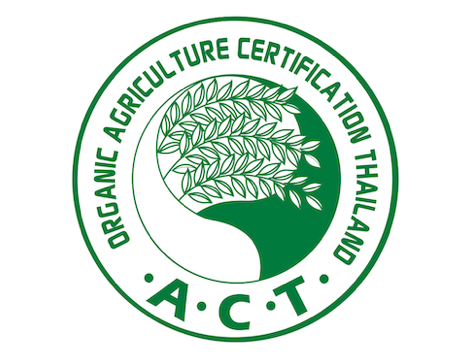
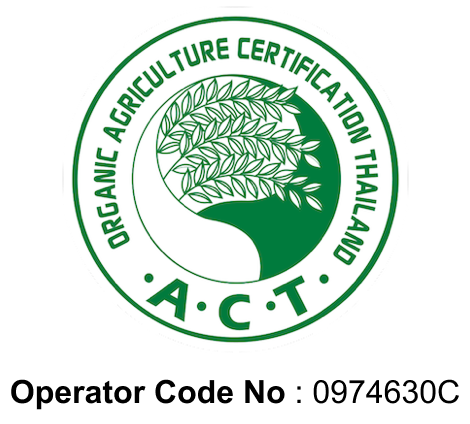
Update certificate modal layout and clean up unused assets
- Change Organic EU certificate images to horizontal layout with center alignment
- Increase padding for cert-modal-logos to 3rem
- Reduce padding for cert-modal-info to 1.5rem
- Make KLBD Kosher logo larger (400px max-height)
- Update Organic USDA to Organic NOP-COR with Canada Bio logo
- Add Operator Code No : 097463OC to Organic EU certification
- Replace Map 1.png with Map.png in origin section
- Rename product images to cleaner names (remove numbering)
- Remove unused asset files to clean up repository
- Update certificate file references from .jpg to .png where needed

diff --git a/index.html b/index.html
@@ -961,7 +961,7 @@ h1, h2, h3, h4 { font-family: var(--font-display); font-weight: 400; }
 }
 
 .product-img-tea-bag {
-  background-image: url('asset/photo/Product Tea Bag Cut (a).jpg');
+  background-image: url('asset/photo/Product Tea Bag Cut.jpg');
   background-size: cover;
   background-position: center;
   background-repeat: no-repeat;
@@ -1416,15 +1416,17 @@ h1, h2, h3, h4 { font-family: var(--font-display); font-weight: 400; }
 
 .cert-modal-logos {
   display: flex;
-  flex-direction: column;
+  flex-direction: row;
   align-items: center;
   justify-content: center;
-  gap: 2rem;
-  padding: 3rem;
+  gap: 1rem;
+  margin-bottom: 1.5rem;
+  flex-wrap: wrap;
+  min-height: 300px;
   background: var(--white);
   border-bottom: 1px solid rgba(31, 59, 35, 0.1);
   box-sizing: border-box;
-  min-height: 300px;
+  padding: 3rem;
 }
 
 .cert-modal-logos img {
@@ -1433,8 +1435,12 @@ h1, h2, h3, h4 { font-family: var(--font-display); font-weight: 400; }
   object-fit: contain;
 }
 
+.cert-modal-logos img[src*="Klbd"] {
+  max-height: 400px;
+}
+
 .cert-modal-info {
-  padding: 2.5rem;
+  padding: 1.5rem;
   text-align: center;
   background: var(--white);
 }
@@ -2336,7 +2342,7 @@ h1, h2, h3, h4 { font-family: var(--font-display); font-weight: 400; }
     <p class="section-tag reveal" style="justify-content: center;">Origin</p>
     <h2 class="reveal reveal-d1">From farmer<br>to <em>end user</em></h2>
     <p class="reveal reveal-d2">Single origin, fully traceable, certified organic Korintje cinnamon from the Kerinci Highlands of Sumatra.</p>
-    <img src="asset/Map 1.png" alt="Cassia Co-op origin map — Kerinci, Sumatra" class="reveal reveal-d3">
+    <img src="asset/Map.png" alt="Cassia Co-op origin map — Kerinci, Sumatra" class="reveal reveal-d3">
   </div>
 </section>
 
@@ -2394,14 +2400,14 @@ h1, h2, h3, h4 { font-family: var(--font-display); font-weight: 400; }
 
     <div class="products-grid">
       <div class="product-card reveal">
-        <div class="product-img" style="background-image: url('asset/photo/10 Powder.jpg');"></div>
+        <div class="product-img" style="background-image: url('asset/photo/Powder.jpg');"></div>
         <div class="product-info">
           <div class="product-type">Cassia / Cinnamon</div>
           <h3>Powder</h3>
         </div>
       </div>
       <div class="product-card reveal reveal-d1">
-        <div class="product-img" style="background-image: url('asset/photo/11 Tea Bag Cut.jpg');"></div>
+        <div class="product-img" style="background-image: url('asset/photo/Tea Bag Cut.jpg');"></div>
         <div class="product-info">
           <div class="product-type">Cassia / Cinnamon</div>
           <h3>Tea Bag Cut</h3>
@@ -2415,21 +2421,21 @@ h1, h2, h3, h4 { font-family: var(--font-display); font-weight: 400; }
         </div>
       </div>
       <div class="product-card reveal reveal-d3">
-        <div class="product-img" style="background-image: url('asset/photo/13 Premium Sticks.jpg');"></div>
+        <div class="product-img" style="background-image: url('asset/photo/Premium Sticks.jpg');"></div>
         <div class="product-info">
           <div class="product-type">Cassia / Cinnamon</div>
           <h3>Premium Sticks</h3>
         </div>
       </div>
       <div class="product-card reveal reveal-d4">
-        <div class="product-img" style="background-image: url('asset/photo/14 Custom Sticks.jpg');"></div>
+        <div class="product-img" style="background-image: url('asset/photo/Custom Sticks.jpg');"></div>
         <div class="product-info">
           <div class="product-type">Cassia / Cinnamon</div>
           <h3>Custom Sticks</h3>
         </div>
       </div>
       <div class="product-card reveal reveal-d5">
-        <div class="product-img" style="background-image: url('asset/photo/15 Broken & Clean.png');"></div>
+        <div class="product-img" style="background-image: url('asset/photo/Broken & Clean.png');"></div>
         <div class="product-info">
           <div class="product-type">Cassia / Cinnamon</div>
           <h3>Broken & Clean</h3>
@@ -3094,14 +3100,14 @@ const certificateFiles = [
 // Certificate modal data with specific certifier logos and certification numbers
 const certificateModalData = {
   'Organic EU': {
-    logos: ['asset/photo/certificate/ACT for EU.png', 'asset/photo/certificate/Skal Certified.jpg'],
-    certificationNumbers: ['Skal no : 026378'],
+    logos: ['asset/photo/certificate/ACT for EU.png', 'asset/photo/certificate/Skal Certified.png'],
+    certificationNumbers: ['Operator Code No : 097463OC','Skal no : 026378'],
     title: 'Organic EU'
   },
   'Organic USDA': {
-    logos: ['asset/photo/certificate/ECOCERT LOGO.jpg'],
+    logos: ['asset/photo/certificate/ECOCERT LOGO.jpg', 'asset/photo/certificate/Canada Bio.png'],
     certificationNumbers: [],
-    title: 'Organic USDA'
+    title: 'Organic NOP-COR'
   },
   'UEBT & RA': {
     logos: ['asset/photo/certificate/UEBT Green.png'],
